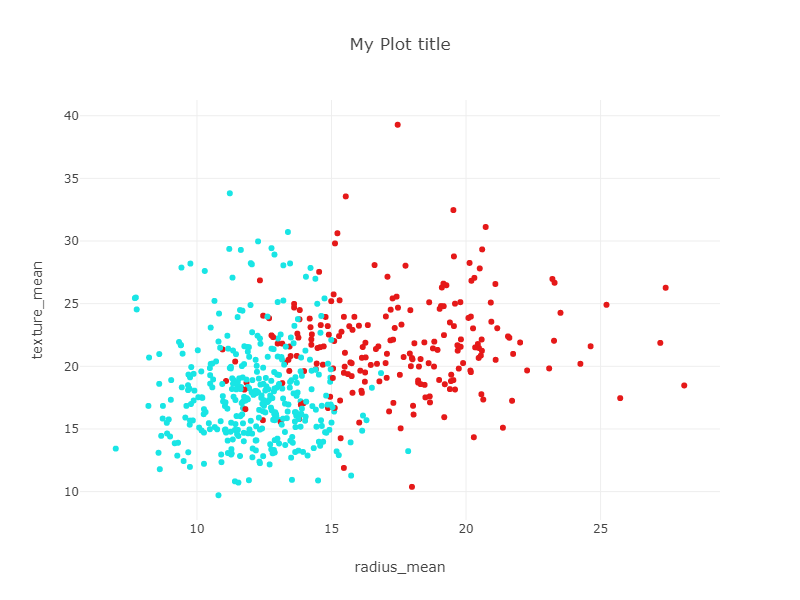
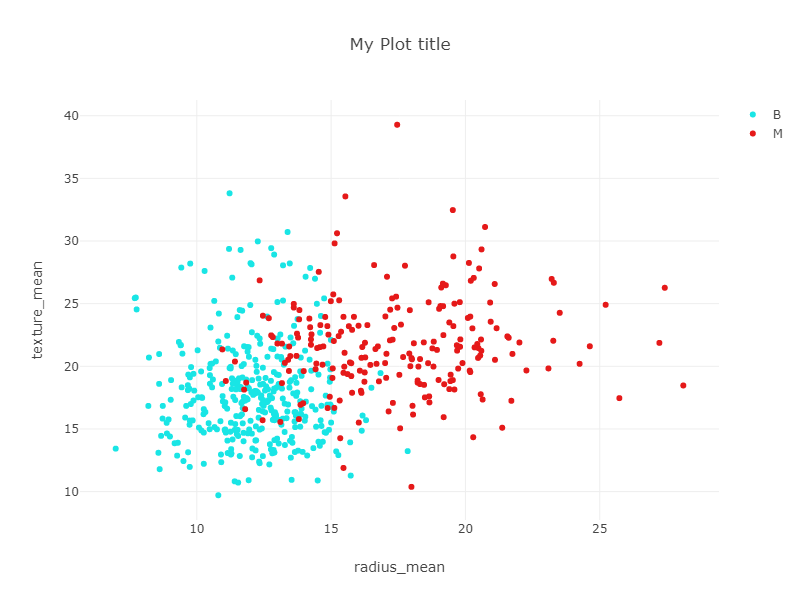
Using plotting by category

diff --git a/Classification-Analysis-Rust/KNN/src/main.rs b/Classification-Analysis-Rust/KNN/src/main.rs
@@ -10,14 +10,16 @@ use plotly::layout::Axis;
 
 fn plotting_relational_plot(x_name: &str, y_name: &str, z_name: &str, data: &DataFrame) {
 
-    let trace = single_relational_plot(x_name, y_name, z_name, data);
+    let traces = single_relational_plot(x_name, y_name, z_name, data);
 
     let x_axis = Vec::from([Some(Box::new(Axis::new().title(Title::from(x_name))))]);
     let y_axis = Vec::from([Some(Box::new(Axis::new().title(Title::from(y_name))))]);
 
 
     let mut plot = Plot::new();
-    plot.add_trace(trace);
+    for trace in traces {
+        plot.add_trace(trace);
+    }
 
     let layout = Layout::new()
         .x_axis(x_axis)
